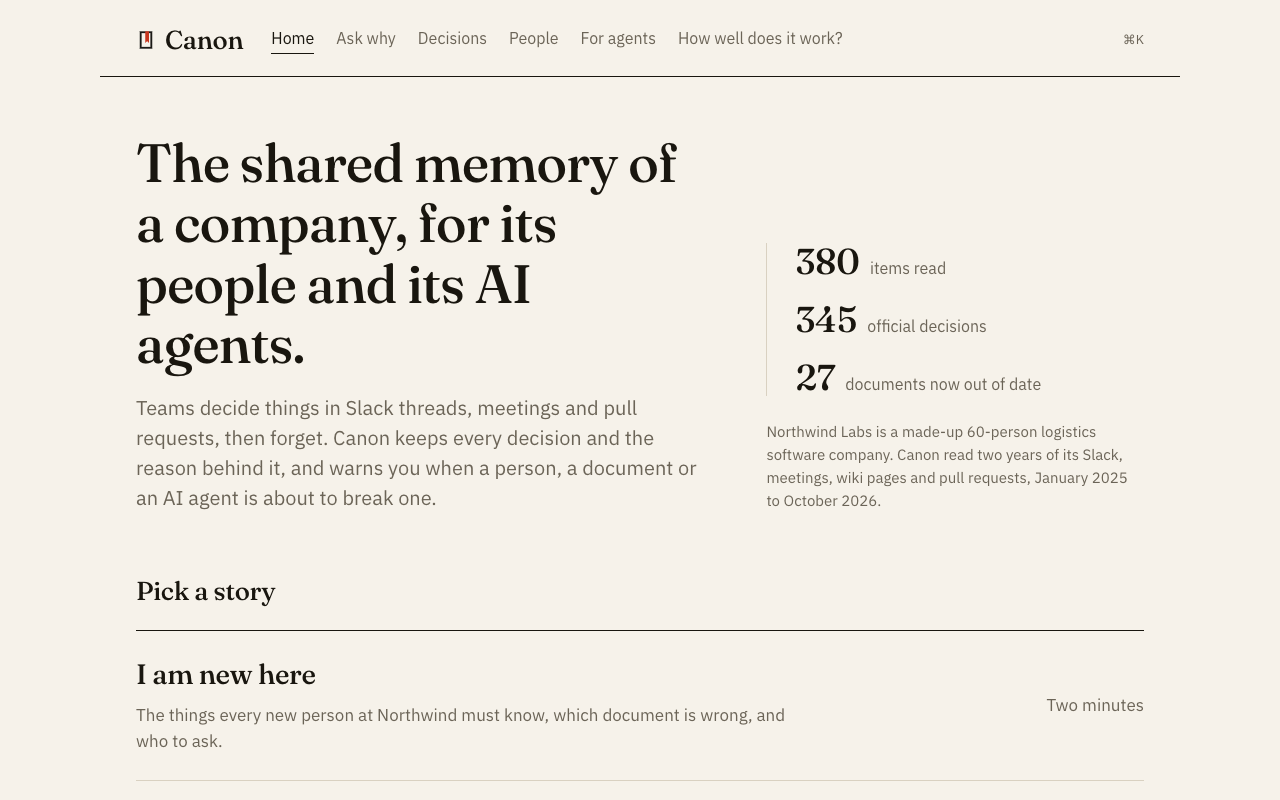
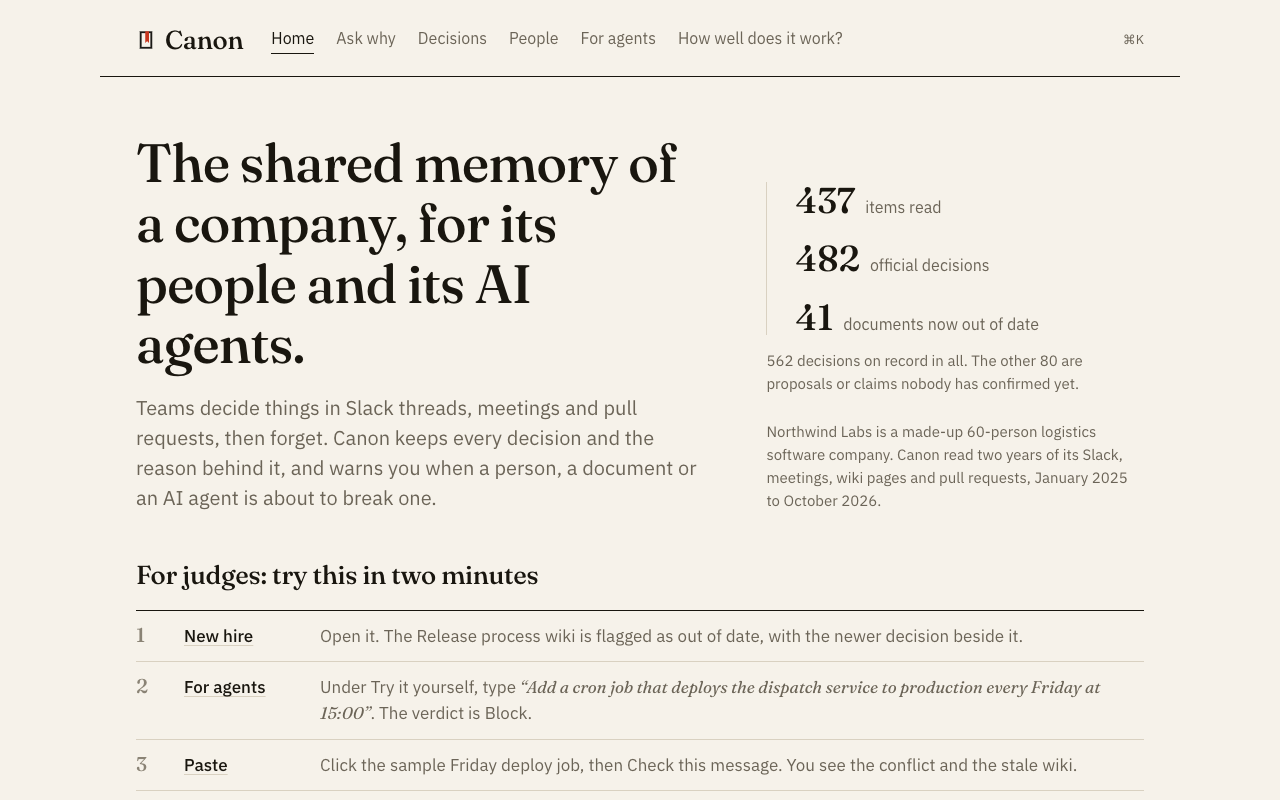
Home and README: a For judges section with five steps and proof links

diff --git a/web/src/pages/HomePage.tsx b/web/src/pages/HomePage.tsx
@@ -5,6 +5,9 @@ import { q } from '@/lib/query'
 import { DISCORD_INVITE, quotedSourceCount, staleDocIds } from '@/lib/record'
 import { useTitle } from '@/lib/title'
 
+const REFUSAL = 'What is Northwind Labs annual recurring revenue for 2026?'
+const ask = (question: string) => `/ask?q=${encodeURIComponent(question)}`
+
 export default function HomePage() {
   useTitle()
   const stats = useQuery(q.stats())
@@ -59,6 +62,48 @@ export default function HomePage() {
             requests, January 2025 to October 2026.
           </p>
         </div>
+      </div>
+
+      <div className="section judges">
+        <h2>For judges: try this in two minutes</h2>
+        <ol className="tryit">
+          <li>
+            <Link to="/new-hire">New hire</Link>
+            <span>Open it. The Release process wiki is flagged as out of date, with the newer decision beside it.</span>
+          </li>
+          <li>
+            <Link to="/agent">For agents</Link>
+            <span>
+              Under Try it yourself, type <q>Add a cron job that deploys the dispatch service to production every Friday at 15:00</q>. The verdict is
+              Block.
+            </span>
+          </li>
+          <li>
+            <Link to="/paste">Paste</Link>
+            <span>Click the sample Friday deploy job, then Check this message. You see the conflict and the stale wiki.</span>
+          </li>
+          <li>
+            <Link to={ask("What's our tech stack?")}>Ask why</Link>
+            <span>
+              Ask <Link to={ask("What's our tech stack?")}>What's our tech stack?</Link> or{' '}
+              <Link to={ask('Why did we choose Postgres?')}>Why did we choose Postgres?</Link> Then <Link to={ask(REFUSAL)}>{REFUSAL}</Link> Canon
+              says it does not know.
+            </span>
+          </li>
+          <li>
+            <a href={DISCORD_INVITE} target="_blank" rel="noreferrer">
+              Discord
+            </a>
+            <span>Join the server and post in #engineering. Canon replies under your message within about a minute.</span>
+          </li>
+        </ol>
+        <p className="proof small">
+          <a href="https://github.com/tejasnafde/canon">GitHub repo</a>
+          <a href="https://canon-tn07.web.app">Firebase Hosting</a>
+          <a href="https://canon-ezvux7gqxa-el.a.run.app/health">Cloud Run</a>
+          <a href="https://canon.tn07.dev/mcp">MCP endpoint</a>
+          <Link to="/benchmark">How well does it work</Link>
+        </p>
       </div>
 
       <div className="section">

diff --git a/web/src/index.css b/web/src/index.css
@@ -671,6 +671,40 @@ table.rows td.owner {
 .stories li.minor h3 {
   font-size: 22px;
 }
+.judges {
+  margin-top: 48px;
+}
+.tryit {
+  list-style: none;
+  counter-reset: tryit;
+  border-top: 1px solid var(--ink);
+}
+.tryit li {
+  counter-increment: tryit;
+  display: grid;
+  grid-template-columns: 32px 120px minmax(0, 1fr);
+  gap: 4px 16px;
+  align-items: baseline;
+  padding: 12px 0;
+  border-bottom: 1px solid var(--rule);
+}
+.tryit li::before {
+  content: counter(tryit);
+  font: 500 20px/1 var(--serif);
+  color: var(--ink-3);
+}
+.tryit li > a:first-child {
+  font-weight: 500;
+}
+.tryit span {
+  color: var(--ink-2);
+}
+.proof {
+  display: flex;
+  flex-wrap: wrap;
+  gap: 6px 24px;
+  margin-top: 14px;
+}
 
 /* new hire */
 .must li {
@@ -1163,6 +1197,12 @@ table.rows td.owner {
   }
   .stories h3 {
     font-size: 24px;
+  }
+  .tryit li {
+    grid-template-columns: 28px minmax(0, 1fr);
+  }
+  .tryit span {
+    grid-column: 2;
   }
   .term {
     padding: 18px;

diff --git a/README.md b/README.md
@@ -4,6 +4,22 @@
 
 **The shared memory of a company, for its people and its AI agents.**
 
+## For judges: try this in two minutes
+
+No login, no setup. Open https://canon.tn07.dev and follow these steps.
+
+| # | Do this | What you should see |
+|---|---|---|
+| 1 | Open **[New hire](https://canon.tn07.dev/new-hire)**. | A red warning that the Release process wiki is out of date, with the old line and the newer decision side by side. |
+| 2 | Open **[For agents](https://canon.tn07.dev/agent)**. Under "Try it yourself", type `Add a cron job that deploys the dispatch service to production every Friday at 15:00`. | The verdict **Block**, with the Friday deploy ban, its owner and the incident behind it. |
+| 3 | Open **[Paste](https://canon.tn07.dev/paste)**. Click the sample **Friday deploy job**, then **Check this message**. | The conflict with the Friday ban, and the stale Release process wiki, in a few seconds. |
+| 4 | Open **[Ask why](https://canon.tn07.dev/ask)**. Ask `What's our tech stack?` or `Why did we choose Postgres?`. Then ask `What is Northwind Labs annual recurring revenue for 2026?` | Short answers with verified quotes. For the revenue question, Canon says it does not know. It does not guess. |
+| 5 | Join the Discord server https://discord.gg/HwSgjmcgF5 and post in **#engineering**, for example `lets ship the dispatch cron this friday`. | Canon replies under your message within about a minute, with the decision it breaks. |
+
+Proof links: [GitHub repo](https://github.com/tejasnafde/canon) · [Firebase Hosting](https://canon-tn07.web.app) · [Cloud Run health](https://canon-ezvux7gqxa-el.a.run.app/health) · [MCP endpoint](https://canon.tn07.dev/mcp) · [How well does it work](https://canon.tn07.dev/benchmark)
+
+**Built on Google Cloud:** Gemini on Vertex AI (extraction, checks, answers, embeddings), Firestore (the decision record), Cloud Run (API, MCP and A2A in one service), Firebase Hosting (the web app), Cloud Scheduler (Discord sync every minute), ADK and A2A (the agent interface).
+
 Teams decide things in Slack threads, meetings and pull requests, then forget. New hires follow a wiki page that was overruled months ago. Coding agents ship changes that break a rule nobody wrote into the code.
 Canon keeps one record of every decision and the reason behind it. Each decision is backed by a quote that is checked word for word against its source. Canon checks every new message, document and agent action against that record, and it warns when a person, a document or an AI agent is about to break a decision.
 
@@ -52,6 +68,10 @@ Open https://canon.tn07.dev. Home shows the live counts (380 items read, 345 off
 
 More inputs: two more paste samples (an update and a new decision) in `data/samples/live_paste.json`, one example per MCP tool in `data/samples/agent_playground.json`, and these questions:
 
+- What's our tech stack?
+- Why did we choose Postgres?
+- How do we deploy to production?
+- Who approves access to the production database?
 - What should we quote a new Route Lens customer, and why did the price change?
 - When did Route Lens GA move, and what gate held it up?
 - What is Northwind Labs annual recurring revenue for 2026? (Canon refuses: the record has no answer)
